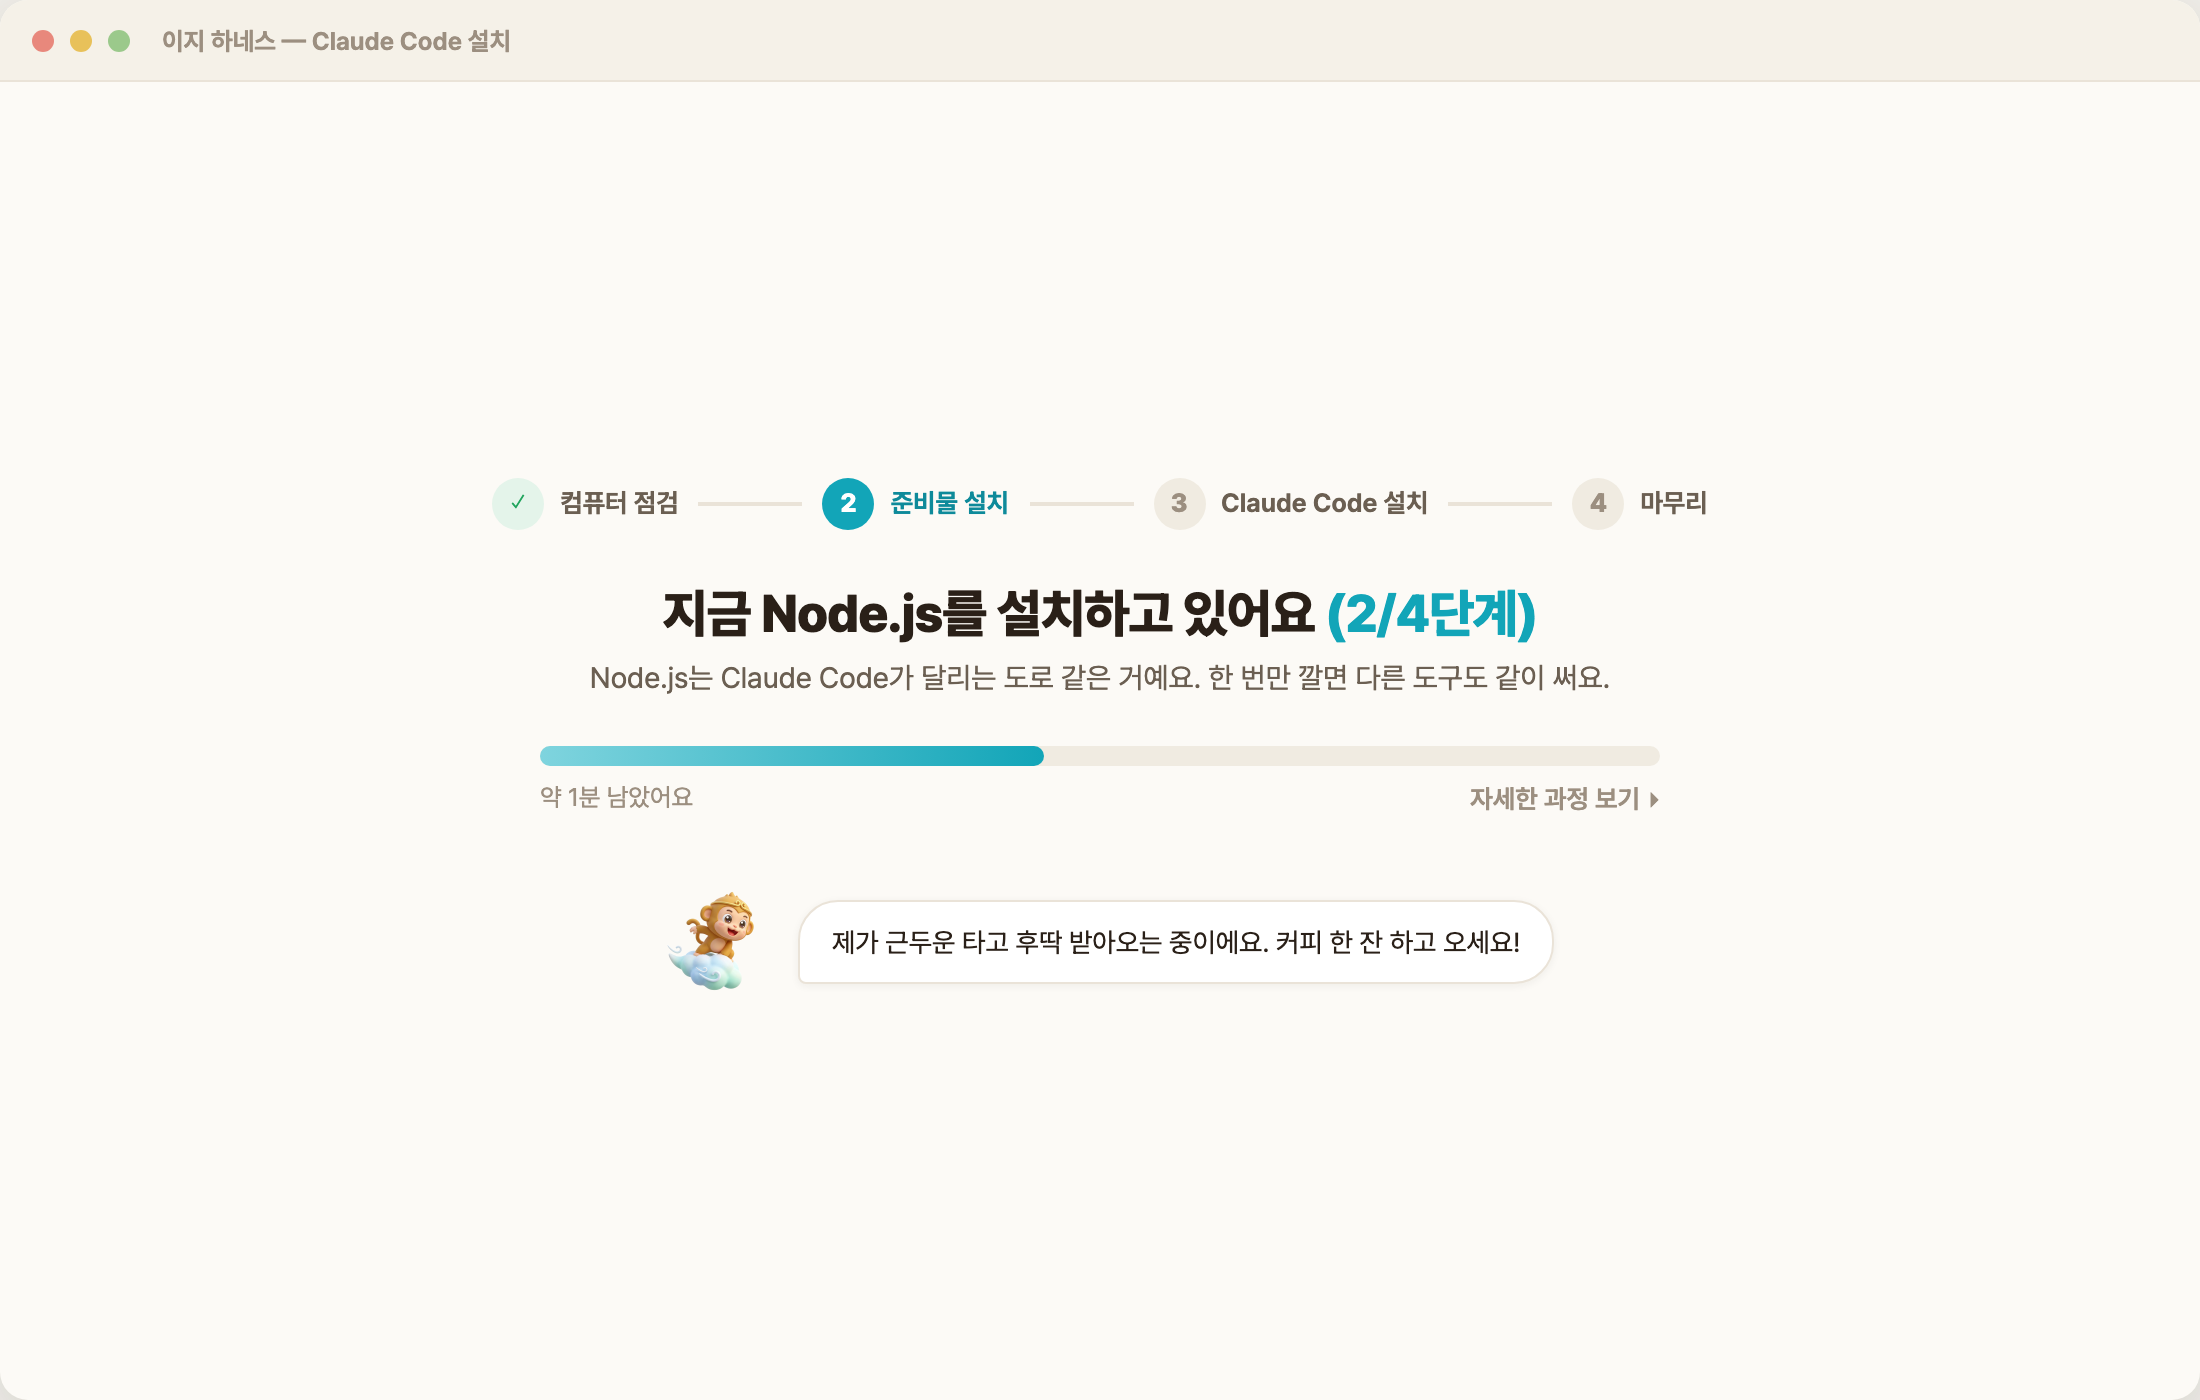
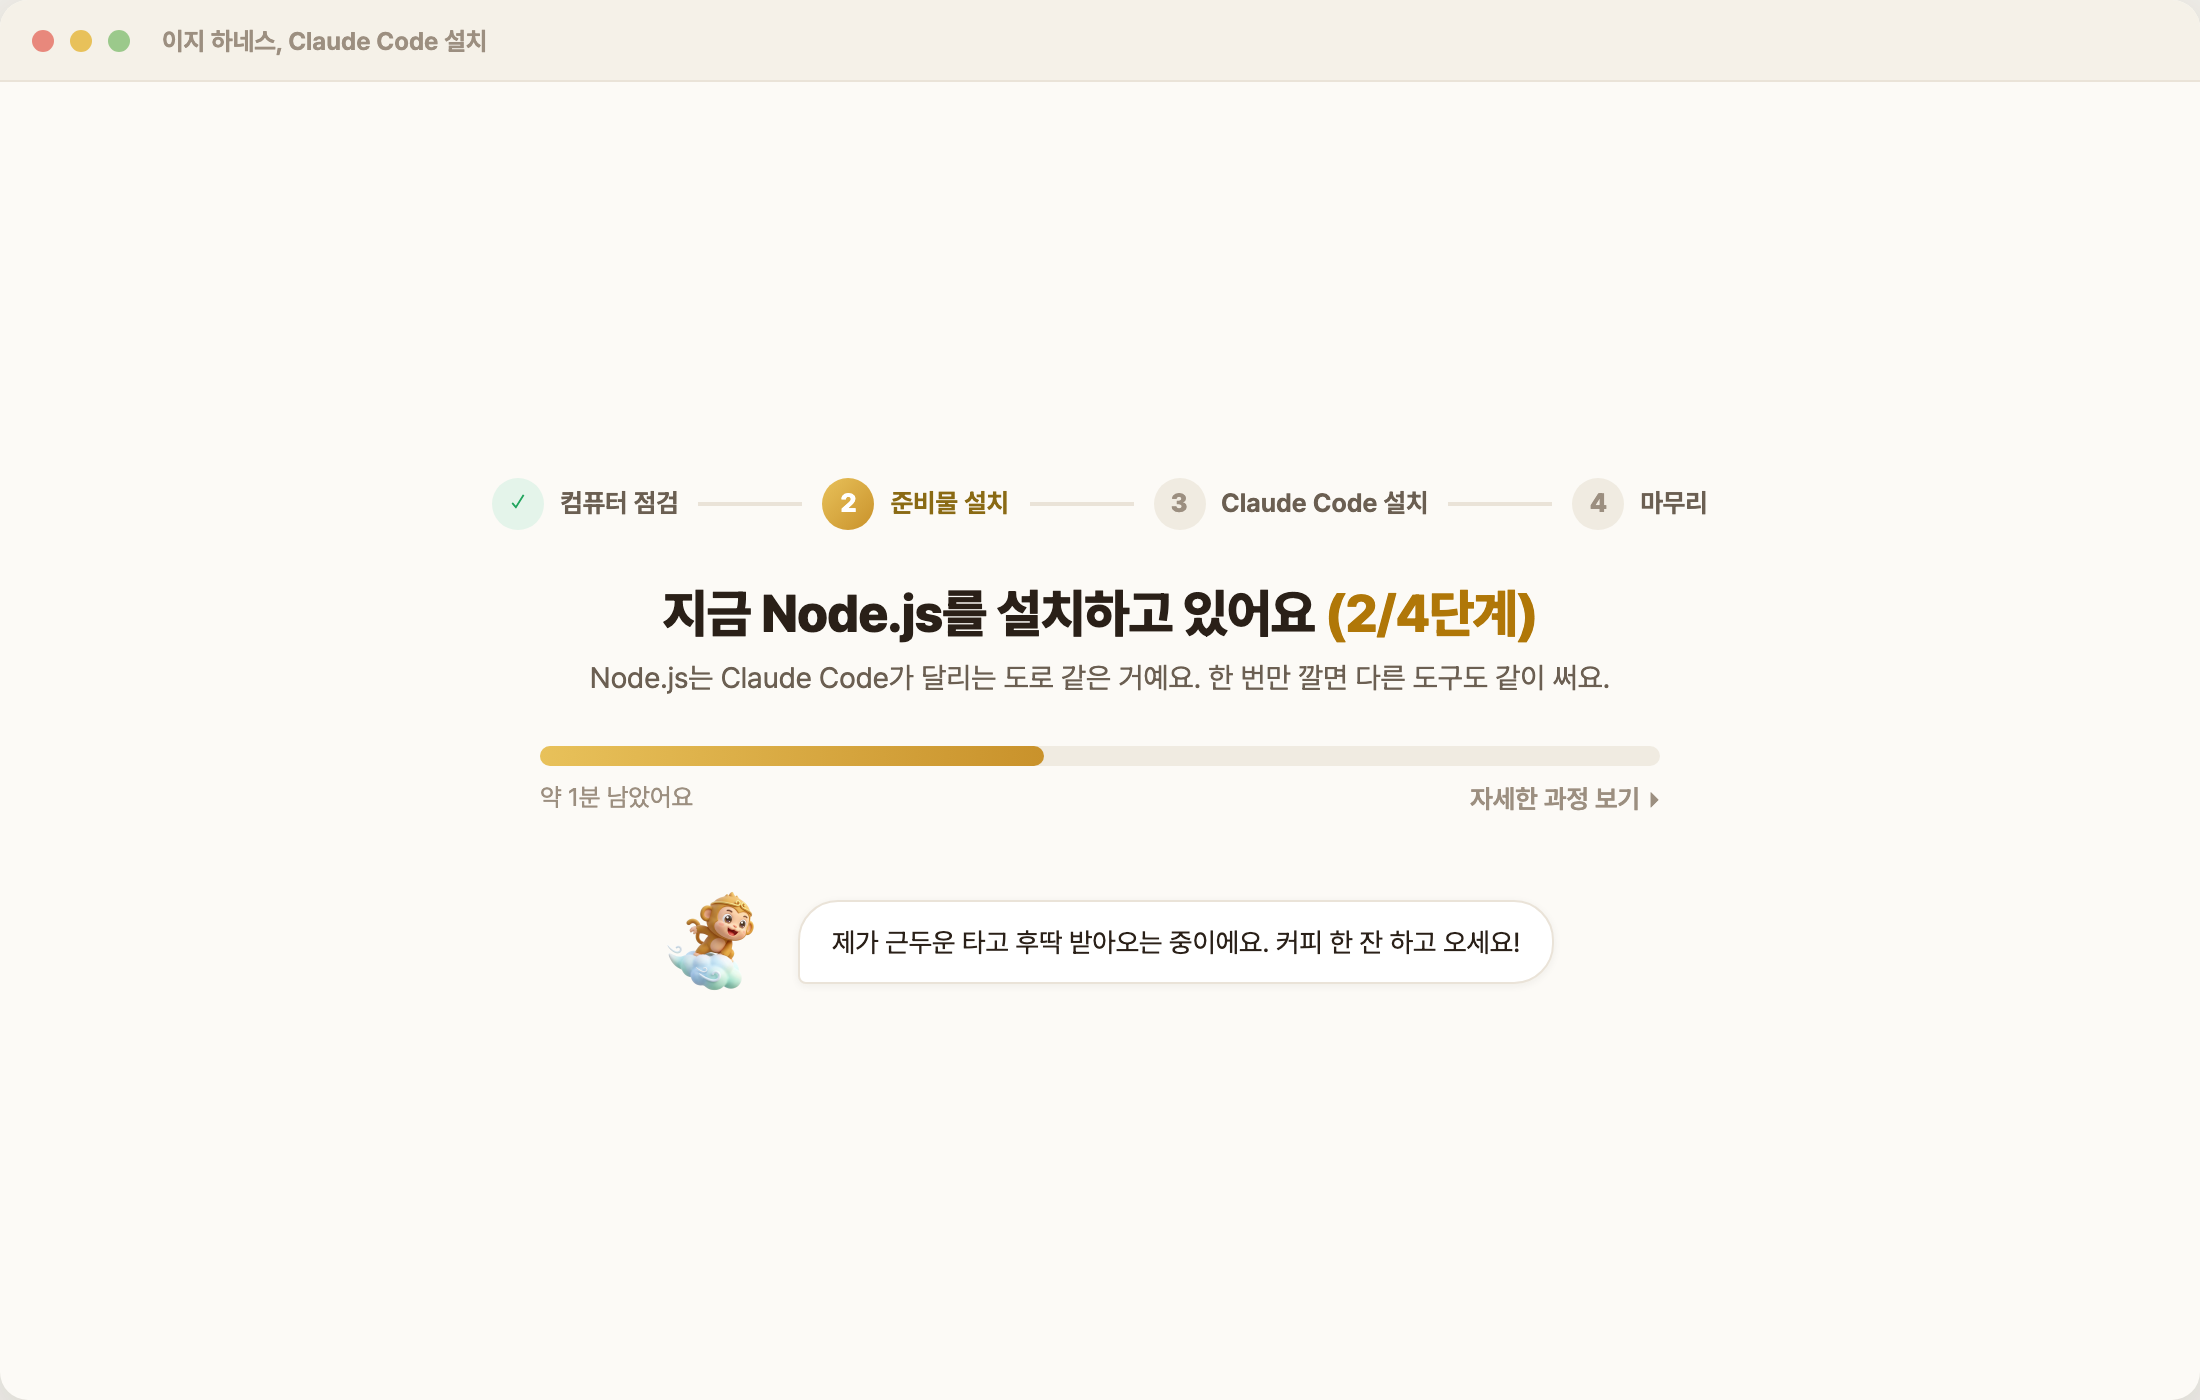
design: 골드 팔레트 전면 전환 + 하네스 6종만 카탈로그 배치 + humanize 윤문 카피 + 공식 로고 라이브 검증 반영
Claude-Session: https://claude.ai/code/session_01GsGvxL8yL4QvQULJ2FyWyX

diff --git a/_workspace/2026-07-05-001/final.md b/_workspace/2026-07-05-001/final.md
@@ -1,0 +1,96 @@
+[01 환영]
+AI 도구, 3분이면 준비 끝나요
+어려운 설치는 오공이가 대신해요. 버튼만 눌러 주세요.
+내 컴퓨터 점검 결과
+맥OS 15, 사용할 수 있어요
+인터넷도 빠르고 안정적이에요
+준비물 2개가 필요해요
+도구를 설치할 때 오공이가 알아서 챙겨요. 지금은 몰라도 돼요
+도구 고르러 가기
+
+[02 카탈로그]
+어떤 AI 도구를 써볼까요?
+카드를 누르면 설치부터 로그인까지 오공이가 다 해줘요.
+말로 시키면 코딩을 대신해주는 만능 일꾼
+ChatGPT 계정으로 쓰는 코딩 도우미
+메신저로 AI 비서를 부리는 도구
+한국어에 강한 코딩 도우미
+Codex를 더 편하게 만들어주는 부스터
+한국형 꿀기능 모음 확장팩
+전체 11개 도구 중 6개만 보여요. 아래로 내리면 더 있어요 · 로고는 각 프로젝트 공식 이미지
+
+[03 설치]
+지금 Node.js를 설치하고 있어요 (2/4단계)
+Node.js는 Claude Code가 달리는 도로 같은 거예요. 한 번만 깔면 다른 도구도 같이 써요.
+약 1분 남았어요
+자세한 과정 보기
+제가 근두운 타고 후딱 받아오는 중이에요. 커피 한 잔 하고 오세요!
+
+[04 로그인]
+딱 한 번, 로그인만 하면 돼요
+설치는 끝났어요! 이제 Claude Code에 내 계정을 연결해 줄 차례예요.
+아래 버튼을 누르면 인터넷 창이 열려요
+오공이가 로그인 페이지까지 데려다줄게요.
+쓰던 계정으로 로그인하세요
+구글 계정이든 이메일이든, 평소 쓰던 걸로 하면 돼요.
+"허용" 버튼만 누르면 끝!
+누르고 나면 이 창으로 자동으로 돌아와요.
+로그인 시작
+로그인 창이 안 뜨나요?
+
+[05 성공]
+Claude Code 준비 완료!
+방금 첫 인사까지 나눠봤어요. 이제 뭐든 시켜보세요.
+바로 시작하기
+
+[06 관리]
+이지 하네스 새 버전이 나왔어요. 1분이면 끝나요.
+지금 업데이트
+내 도구
+설치한 도구는 3개예요. 오공이가 매일 새 버전이 있는지 확인해요.
+✓ 최신 상태예요
+새 버전이 나왔어요
+업데이트
+삭제
+
+<!-- HUMANIZE-SUMMARY v1.6.1
+run_id: 2026-07-05-001
+input_type: UI copy 목록 (화면별 [NN 섹션] 헤더 + 줄 단위 카피) — 줄 구조 보존 모드
+metrics:
+  char_in: 714        # 공백 제외
+  char_out: 715       # 공백 제외
+  change_rate_line: 18.6%   # 콘텐츠 43줄 중 8줄 편집
+  change_rate_char: 3.7%    # difflib 편집 거리 기준
+  self_check: 6/6
+  grade: A
+categories:  # before → after
+  em대시(—) 제거 [사용자 명시 지시]: 6 → 0
+  E-2 종결어미 '~드려요' 반복 분산: 3 → 0   # 챙겨요 / 해줘요 / 데려다줄게요 3종으로 분산
+  E-1 라벨 병렬 리듬(점검 결과 2줄): 2 → 0   # '—사용할 수 있어요' 대구 해체
+self_check:
+  - 고유명사·제품명·수치·인용·버튼라벨 100% 보존: ✅  # 오공이·Claude Code·Codex·ChatGPT·Node.js·이지 하네스·(2/4단계)·11/6/3/2개·"허용"·✓
+  - 변경률 30% 이하: ✅
+  - 장르 이탈 없음(줄 단위 UI 카피 구조 유지): ✅
+  - register 보존(친근 해요체): ✅
+  - S1 잔존 0건(em대시 0, 드려요 0): ✅
+  - 인공 표현 추가 없음(근두운·도로 비유 등 원문 그대로): ✅
+highlights:
+  - id: em-dash
+    before: "도구를 설치할 때 오공이가 자동으로 챙겨드려요 — 지금은 몰라도 돼요"
+    after: "도구를 설치할 때 오공이가 알아서 챙겨요. 지금은 몰라도 돼요"
+  - id: em-dash
+    before: "구글 계정이나 이메일 — 평소 쓰던 걸로 하면 돼요."
+    after: "구글 계정이든 이메일이든, 평소 쓰던 걸로 하면 돼요."
+  - id: honorific-vary
+    before: "카드를 누르면 오공이가 설치부터 로그인까지 다 해드려요."
+    after: "카드를 누르면 설치부터 로그인까지 오공이가 다 해줘요."
+  - id: honorific-vary
+    before: "오공이가 로그인 페이지까지 데려다드려요."
+    after: "오공이가 로그인 페이지까지 데려다줄게요."
+  - id: label-rhythm
+    before: "맥OS 15 — 사용할 수 있어요 / 인터넷 연결 — 빠르고 안정적이에요"
+    after: "맥OS 15, 사용할 수 있어요 / 인터넷도 빠르고 안정적이에요"
+residual_findings: (없음)
+untouched_on_purpose: 카탈로그 카드 설명 6줄(14~19)은 각기 다른 실제 도구를 지칭하는 의미 담긴 라벨이라 원형 보존. 버튼 라벨(도구 고르러 가기·로그인 시작·바로 시작하기·업데이트·삭제 등) 원형 보존.
+grade_reason: "A — S1 0건(em대시 0·드려요 0), 변경률 줄 18.6%·글자 3.7%, 자체검증 6/6. 제품명·마스코트·단계표기·버튼라벨 무손상, 친근 해요체 유지."
+-->

diff --git a/design/design-system.md b/design/design-system.md
@@ -5,8 +5,9 @@
 ## 원칙
 
 1. **비개발자 눈높이** — 모든 문구는 전문용어 0. 검수 질문: "개발 지식 없는 사람이 처음 읽어도 이해되는가?"
-2. **긴고아 = 하네스** 브랜드 스토리 — 골드는 "제어·완료·신뢰"의 색. 남용 금지: 화면당 골드 포인트는 1~2곳.
-3. **근두운 = 진행·이동** — 진행 표시·로딩에 구름/민트 모티프. 어려운 일은 마스코트가 "대신 날아가서" 하는 연출.
+2. **긴고아 골드가 주 색** (사용자 확정, 2026-07-05). 주 버튼·선택 상태·진행바·강조 배너 전부 골드 그라디언트(primaryGradient)+goldButton 그림자. 청록(cloudMint/cloudDeep)은 근두운 모티프(정보성 포인트)에만 제한적으로.
+3. **근두운 = 진행·이동** — 어려운 일은 마스코트가 "대신 날아가서" 하는 연출.
+4. **UI 카피에 em dash(—) 금지.** 카피는 humanize 검수를 거친다 (AI 말투 제거). 이모지는 브랜드 요소가 아니므로 UI에 사용하지 않는다 (벨·체크 등은 도형/글리프로).
 4. 라이트/다크 테마 모두 지원 (`surface.*Dark`, `text.*Dark` 토큰).
 
 ## 마스코트 사용 규칙
@@ -27,8 +28,12 @@
 - 진행바: line.default 트랙 위 primary 채움, 진행 헤드에 작은 구름 아이콘.
 - "자세한 로그 보기" 토글: tertiary 텍스트 버튼, 펼치면 mono 폰트 로그 패널(cardDark 배경 고정).
 
+### 카탈로그 계층 규칙
+- 카탈로그(하네스 탭)에는 **같은 계층인 하네스 6종만** 나열한다. 플러그인·오픈소스 5종은 사이드바 "플러그인 · 오픈소스" 메뉴로 분리.
+- 도구 로고는 각 프로젝트 공식 이미지를 라이브 검증 후 사용 (확인: Anthropic·OpenAI·OpenClaw·NousResearch(Hermes)·Anomaly(OpenCode)). 공식 로고가 없는 도구(GajaeCode)는 이니셜 타일 + "준비 중" 표기.
+
 ### 버튼 위계
-- 주(Primary): primary 배경 + onBrand 텍스트, radius.button. 화면당 1개 원칙.
+- 주(Primary): primaryGradient 배경 + onBrand 텍스트 + goldButton 그림자, radius.button. 화면당 1개 원칙.
 - 보조(Secondary): card 배경 + line 테두리 + text.primary.
 - 위험(Danger): error 배경 — 삭제 확인 다이얼로그에서만.
 
